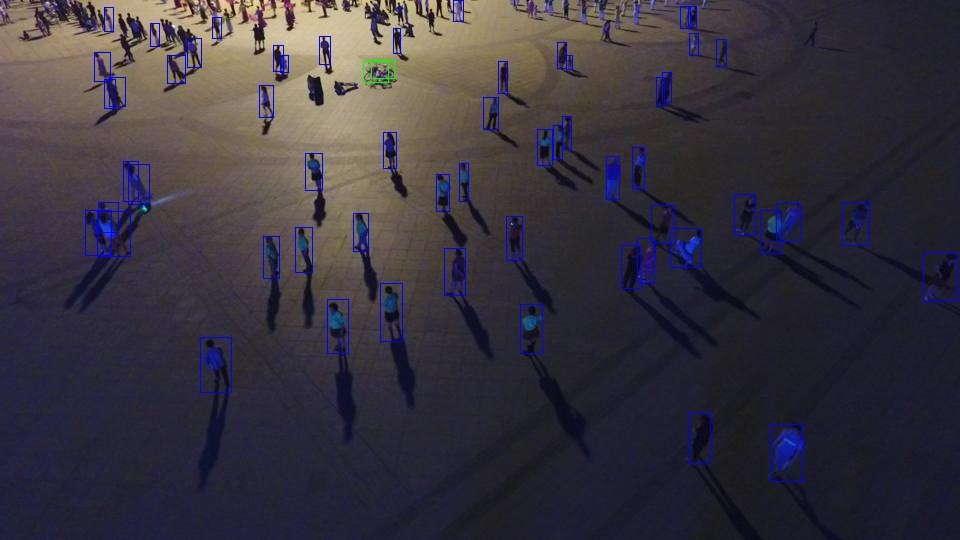
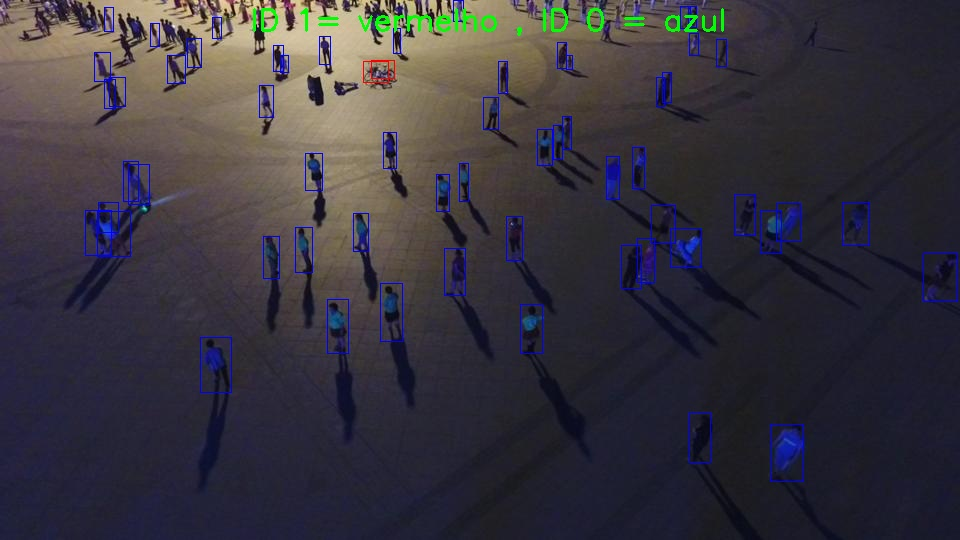
versao final do codigo

Changed region(s): [[0.25, 0.0, 0.5312, 0.0593], [0.5625, 0.0, 0.7812, 0.0593], [0.375, 0.0889, 0.4375, 0.1778]]

diff --git a/src/main.py b/src/main.py
@@ -8,17 +8,29 @@ def teclas():
         print("Para fechar as janelas,basta pressionar a tecla q e para avançar basta apertar espaço.")
         tecla = cv2.waitKey(0) & 0xFF
         if tecla == ord("q"):
-            cv2.destroyAllWindows
+            cv2.destroyAllWindows()
             return True
         if tecla == ord(" "):
             break
 
 
-def tratamento_erros(nome,argumento,anotacao):
-    pass
+def tratamento_erros(nome,arg,anotacao):
 
 
+    if arg is None:
+        print(f"Erro ao carregar imagem {nome}")
+        raise SystemExit(1)
 
+    altura , largura = arg.shape[:2]
+
+    for teste in anotacao.lista:
+
+        if teste.xmin >= teste.xmax or teste.xmax >= largura or teste.xmin <0:
+            print("Erro: Valores invalidos")
+            raise SystemExit(1)
+        if teste.ymin >= teste.ymax or teste.ymax >= altura or teste.ymin < 0:
+            print("Erro: Valores invalidos")
+            raise SystemExit(1)
 
 
 def main():
@@ -30,24 +42,13 @@ def main():
     for nome in sorted(imagens):  #iterando cada nome de chave de imagem
         arg = cv2.imread(f"imagens/{nome}") #le a imagem
         
-        print(f"Nesta imagem,existem {len(imagens[nome])} caixinhas")
+        tratamento_erros(nome,arg,imagens[nome]) #chama funcao para tratar erros
 
-        if arg is None:
-            print(f"Erro ao carregar imagem {nome}")
-            raise SystemExit(1)
-        
+        print(f"Nesta imagem {nome},existem {len(imagens[nome])} caixinhas")
+
         arg2 = imagens[nome].gerar_imagem(arg) # desenha a nova imagem
 
-        altura , largura = arg.shape[:2]
-
-        for teste in imagens[nome].lista:
-
-            if teste.xmin >= teste.xmax or teste.xmax >= largura or teste.xmin <0:
-                print("Erro: Valores invalidos")
-                raise SystemError(1)
-            if teste.ymin >= teste.ymax or teste.ymax >= altura or teste.ymin < 0:
-                print("Erro: Valores invalidos")
-                raise SystemError(1)
+        cv2.putText(arg2,text = "ID 1= vermelho , ID 0 = azul",org=(250,30),fontFace=cv2.FONT_HERSHEY_SIMPLEX,fontScale=1.0,color=(0,255,0),thickness = 2)
 
         cv2.imwrite(f"resultados/{nome}",arg2)
 

diff --git a/src/modelos.py b/src/modelos.py
@@ -10,7 +10,7 @@ class Deteccao:   #classe de desenhar nas imagens
 
     def desenhar(self,imagem): #metodo para desenhar o retangulo
         if self.id == 1:
-            cv2.rectangle(imagem,(self.xmin,self.ymin),(self.xmax,self.ymax),(0,255,0))
+            cv2.rectangle(imagem,(self.xmin,self.ymin),(self.xmax,self.ymax),(0,0,255))
         else:
             cv2.rectangle(imagem,(self.xmin,self.ymin),(self.xmax,self.ymax),(255,0,0))  
 

diff --git a/README.md b/README.md
@@ -1,4 +1,4 @@
-# Material complementar do entregável 2
+# Mateus-Dutra-Entregavel2
 
 Este pacote contém 10 imagens e suas 581 bounding boxes, selecionadas do arquivo visdrone_calib_256.zip fornecido pela organização. As imagens foram apenas renomeadas; seus bytes e sua resolução foram preservados. Todas as anotações das imagens selecionadas foram mantidas, na ordem dos TXT de origem.
 
